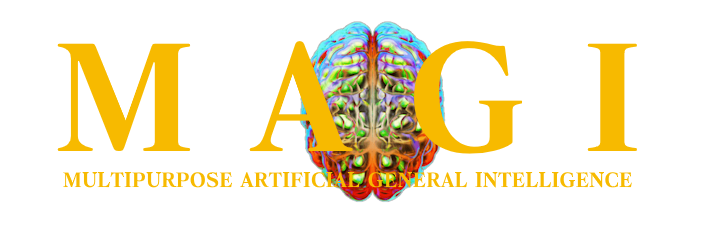
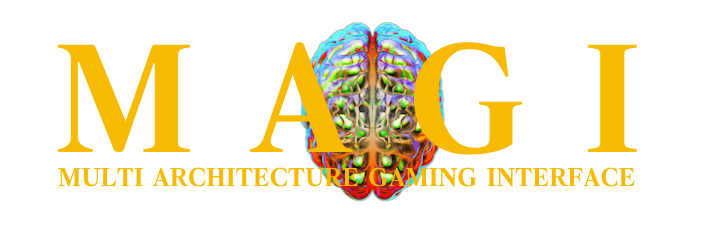
NAMAE

diff --git a/src/screens/boot.rs b/src/screens/boot.rs
@@ -164,7 +164,7 @@ pub fn draw(cv: &mut Canvas, fonts: &mut Fonts, t: f32) {
         cv,
         w / 2,
         78,
-        "MULTIPURPOSE ARTIFICIAL GENERAL INTELLIGENCE",
+        "MULTI ARCHITECTURE GAMING INTERFACE",
         9.0,
         pal().text_dim,
     );
@@ -593,7 +593,7 @@ pub fn render_bootlogo(cv: &mut Canvas, fonts: &mut Fonts) {
         cv,
         w / 2,
         h / 2 + 24,
-        "MULTIPURPOSE ARTIFICIAL GENERAL INTELLIGENCE",
+        "MULTI ARCHITECTURE GAMING INTERFACE",
         9.0,
         pal().text_dim,
     );

diff --git a/README.md b/README.md
@@ -2,7 +2,7 @@
   <img src="assets/readme/boot.png" width="360" alt="MAGI boot screen">
 </p>
 
-<p align="center"><b>MULTIPURPOSE ARTIFICIAL GENERAL INTELLIGENCE</b></p>
+<p align="center"><b>MULTI ARCHITECTURE GAMING INTERFACE</b></p>
 <p align="center"><i>Frontend genesis for BaseOS.</i></p>
 
 <p align="center">
@@ -103,7 +103,7 @@ MAGI will recreate missing folders at boot.
 | **MELCHIOR-1** | **BALTHASAR-2** | **CASPER-3** |
 |---|---|---|
 | **Shelf**<br>Simple (text) or Art (cover preview) lists, art downloads, favorites, resume, per-system overlays, themes, clock and battery. | **Play**<br>Save states, resume, rewind, fast-forward, integer scaling, screenshots and an in-game OSD. | **N64**<br>[Miyoo64 native ports](assets/docs/n64-ports.md) with automatic discovery, save states, brightness/warmth OSD and a performance governor. |
-| **Connectivity**<br>Wi-Fi, Bluetooth gamepads, SSH, NTP and an on-device hostname editor. | **Display**<br>EGL/GLES on the Mali GPU: hardware scaling, a shimmerless game shader, bezel/CRT compositing, warmth and the in-game overlays, with a software `/dev/fb0` fallback. | **Audio**<br>Software volume, speaker/headphones/HDMI, Bluetooth A2DP and N64 audio through a small ALSA bridge. |
+| **Connectivity**<br>Wi-Fi, Bluetooth gamepads, SSH, NTP and an on-device hostname editor. | **Display**<br>EGL/GLES on the Mali GPU: hardware scaling, game shaders, bezel/CRT compositing, warmth and the in-game overlays, with a software `/dev/fb0` fallback. | **Audio**<br>Software volume, speaker/headphones/HDMI, Bluetooth A2DP and N64 audio through a small ALSA bridge. |
 | **Power**<br>Lid sleep and wake, timed shutdown, battery shutdown, charge limit, LED control and the EVA shutdown countdown. | | |
 
 
